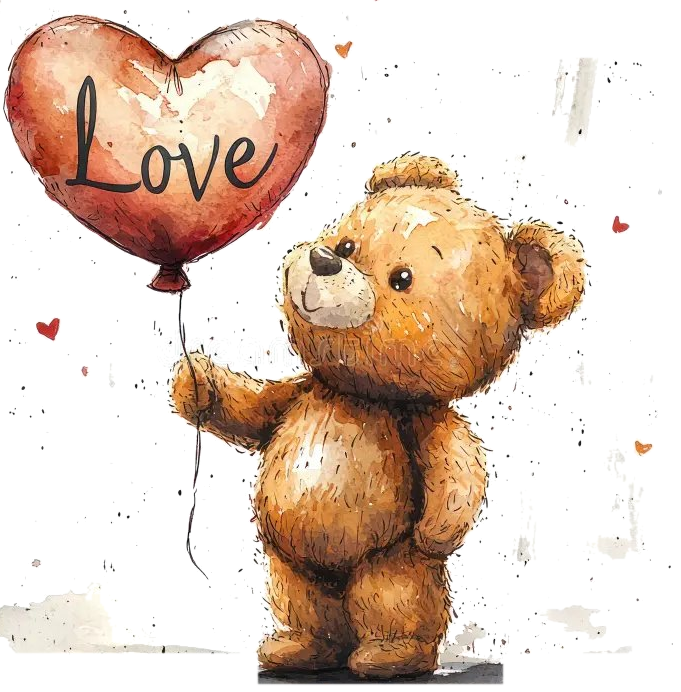
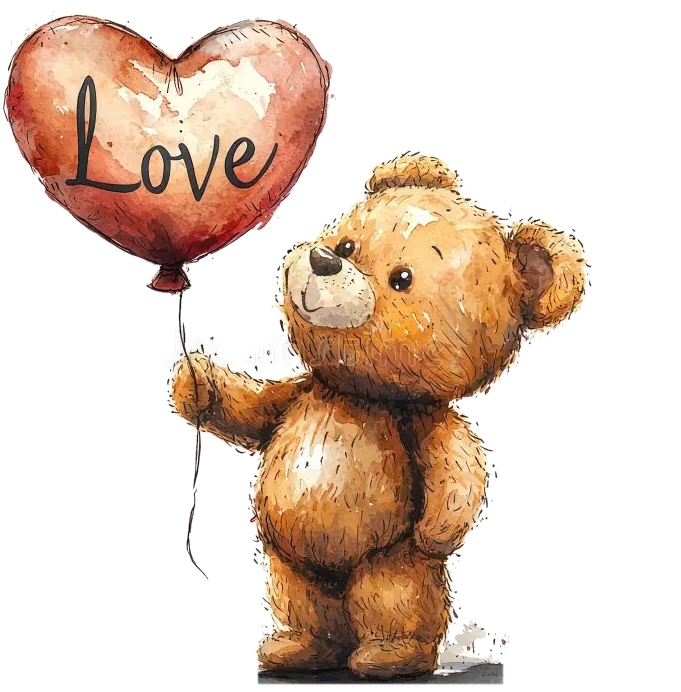
refactor: add card minimize toggle and remove portfolio modal and signature elements

diff --git a/index.html b/index.html
@@ -16,7 +16,7 @@
     href="https://fonts.googleapis.com/css2?family=Alex+Brush&family=Caveat:wght@600;700&family=Cormorant+Garamond:ital,wght@0,300;0,400;0,600;1,300;1,400&family=Inter:wght@300;400;500;600;700;800&family=JetBrains+Mono:wght@400;600;700&family=Noto+Sans+Arabic:wght@400;600;700&family=Noto+Sans+Devanagari:wght@400;600;700&family=Noto+Sans+JP:wght@400;700&family=Noto+Sans+KR:wght@400;700&family=Noto+Sans+SC:wght@400;700&family=Noto+Sans+Tamil:wght@400;600;700&family=Noto+Sans+Telugu:wght@400;600;700&display=swap"
     rel="stylesheet">
 
-  <link rel="stylesheet" href="css/style.css?v=28.0">
+  <link rel="stylesheet" href="css/style.css?v=29.0">
 </head>
 
 <body class="theme-aurora">
@@ -105,6 +105,10 @@
 
       <!-- 3. Interactive Frosted Glass Action Card -->
       <div id="gift-action-card" class="gift-action-card">
+        <button id="btn-toggle-card" class="card-toggle-btn" type="button" aria-label="Minimize or maximize card" title="Minimize card">
+          <span class="toggle-icon">✕</span>
+        </button>
+
         <div class="card-sparkle-pill">✦ &nbsp;HEARTFELT DEDICATION &nbsp;✦</div>
 
         <h2 id="gift-card-title" class="gift-card-title">Hey, <span id="card-name">Lokesh Kumar</span>! ✨</h2>
@@ -129,104 +133,24 @@
             <span class="btn-text">PULSE HEART</span>
             <span class="btn-icon">💖</span>
           </button>
-
-          <button id="btn-explore-world" class="act-btn act-btn-explore" type="button"
-            title="Explore Developer Portfolio">
-            <span class="btn-text">EXPLORE MY WORLD</span>
-            <span class="btn-icon">✨</span>
-          </button>
         </div>
 
         <!-- Replay Action -->
         <button id="btn-replay" class="note-replay" type="button">Watch Again ↺</button>
-
-        <!-- 5. Pure ASCII Key Design Signature of Lokesh Kumar -->
-        <div id="corner-signature" class="corner-signature" aria-label="ASCII Key Signature of Lokesh Kumar">
-          <div class="ascii-sig-box">
-            <div class="ascii-sig-head">
-              <span class="sig-prompt">&gt;</span> <span class="sig-label">with love</span> <span class="sig-colon">:</span>
-            </div>
-            <div class="ascii-key-cluster" aria-label="Lokesh Kumar">
-              <div class="ascii-key-word">
-                <span class="ascii-key">L</span>
-                <span class="ascii-key">O</span>
-                <span class="ascii-key">K</span>
-                <span class="ascii-key">E</span>
-                <span class="ascii-key">S</span>
-                <span class="ascii-key">H</span>
-              </div>
-              <div class="ascii-key-word">
-                <span class="ascii-key">K</span>
-                <span class="ascii-key">U</span>
-                <span class="ascii-key">M</span>
-                <span class="ascii-key">A</span>
-                <span class="ascii-key">R</span>
-              </div>
-            </div>
-            <div class="ascii-sig-bytes">
-              <span class="ascii-code">ASCII_KEY:</span> 77 69 74 68 &bull; 6C 6F 76 65 <span class="sig-star">✦</span>
-            </div>
-            <div class="ascii-sig-rule">+-------------------------------+</div>
-          </div>
-        </div>
       </div>
+
+      <!-- Collapsed Card Reopen Pill -->
+      <button id="btn-card-pill" class="card-reopen-pill" type="button" aria-label="Open heartfelt dedication card" title="Show dedication card">
+        <span>💌 Dedication Card</span>
+      </button>
     </div>
 
   </main>
 
-  <!-- Interactive Creative Portfolio Modal ("Explore My World") -->
-  <div id="world-modal" class="world-modal" role="dialog" aria-modal="true" aria-hidden="true" inert>
-    <div class="world-modal-backdrop"></div>
-    <div class="world-modal-content">
-      <button id="btn-close-world" class="btn-close-modal" aria-label="Close modal">&times;</button>
-
-      <div class="world-badge">🌌 &nbsp;CREATIVE DEVELOPER PORTFOLIO &nbsp;🌌</div>
-      <h2 class="world-title">Welcome to My Universe ✨</h2>
-      <p class="world-subtitle">Crafted with mathematics, passion, and creative code by <strong>Lokesh Kumar</strong>.
-      </p>
-
-      <div class="world-cards-grid">
-        <div class="world-card">
-          <div class="world-card-icon">🧸</div>
-          <h3>Procedural Living ASCII</h3>
-          <p>Real-time 60 FPS rasterization of transparent watercolors into glowing 24-bit RGB ASCII characters with
-            physical breathing and wave kinematics.</p>
-        </div>
-
-        <div class="world-card">
-          <div class="world-card-icon">🕊</div>
-          <h3>Carrier Pigeon Dove Physics</h3>
-          <p>Kinematic sine-wave wing flapping (13 Hz) with cubic Bezier trajectory descent and feather stardust
-            particle dissipation.</p>
-        </div>
-
-        <div class="world-card">
-          <div class="world-card-icon">✨</div>
-          <h3>Synthesized Web Audio</h3>
-          <p>Zero external MP3 dependencies. 100% procedurally synthesized music box chimes, love chords, and tactile
-            acoustic clicks.</p>
-        </div>
-
-        <div class="world-card">
-          <div class="world-card-icon">🌌</div>
-          <h3>Multi-Theme Starlight Engine</h3>
-          <p>Seamless real-time switching between Cosmic Aurora, Cyber Rose, Golden Honey, and Dreamy Lavender
-            atmospheres.</p>
-        </div>
-      </div>
-
-      <div class="world-modal-footer">
-        <a href="https://github.com/lokeshkumar143" target="_blank" rel="noopener noreferrer" class="world-github-btn">
-          <span>View on GitHub ↗</span>
-        </a>
-      </div>
-    </div>
-  </div>
-
   <!-- Toast Notification Feedback -->
   <div id="toast-msg" class="toast-msg" aria-live="polite"></div>
 
-  <script type="module" src="js/app.js?v=28.0"></script>
+  <script type="module" src="js/app.js?v=29.0"></script>
 </body>
 
 </html>

diff --git a/js/app.js b/js/app.js
@@ -64,14 +64,14 @@ class PigeonTeddyApp {
 
     this.giftActionCard = document.getElementById('gift-action-card');
     this.cardName = document.getElementById('card-name');
+    this.btnToggleCard = document.getElementById('btn-toggle-card');
+    this.btnCardPill = document.getElementById('btn-card-pill');
 
     this.btnSaveGift = document.getElementById('btn-save-gift');
     this.btnMakeWave = document.getElementById('btn-make-wave');
     this.btnPulseHeart = document.getElementById('btn-pulse-heart');
-    this.btnExploreWorld = document.getElementById('btn-explore-world');
     this.replayBtn = document.getElementById('btn-replay');
 
-    this.cornerSignature = document.getElementById('corner-signature');
     this.themeToggleBtn = document.getElementById('theme-toggle-btn');
     this.themeLabel = document.getElementById('theme-label');
     this.themeIcon = document.getElementById('theme-icon');
@@ -79,8 +79,6 @@ class PigeonTeddyApp {
     this.soundIcon = document.getElementById('sound-icon');
     this.soundLabel = document.getElementById('sound-label');
 
-    this.worldModal = document.getElementById('world-modal');
-    this.btnCloseWorld = document.getElementById('btn-close-world');
     this.toastMsg = document.getElementById('toast-msg');
   }
 

diff --git a/js/ascii-teddy.js b/js/ascii-teddy.js
@@ -49,7 +49,7 @@ export class AsciiTeddy {
       {
         id: 'love-balloon',
         title: 'Love Balloon',
-        src: 'assets/teddy-4-standing-clean.png?v=15.0'
+        src: 'assets/teddy-4-standing-clean.png?v=16.0'
       }
     ];
 
